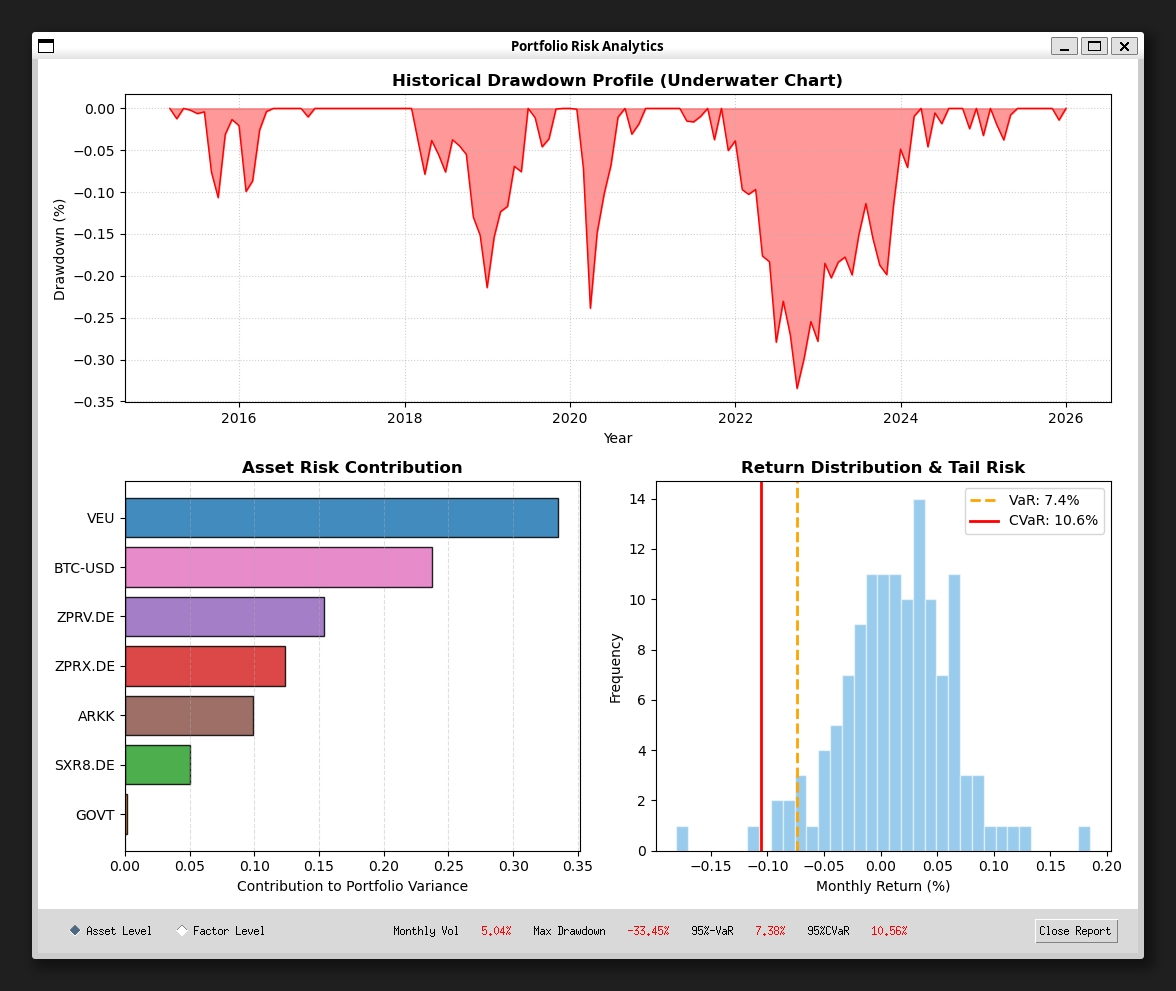
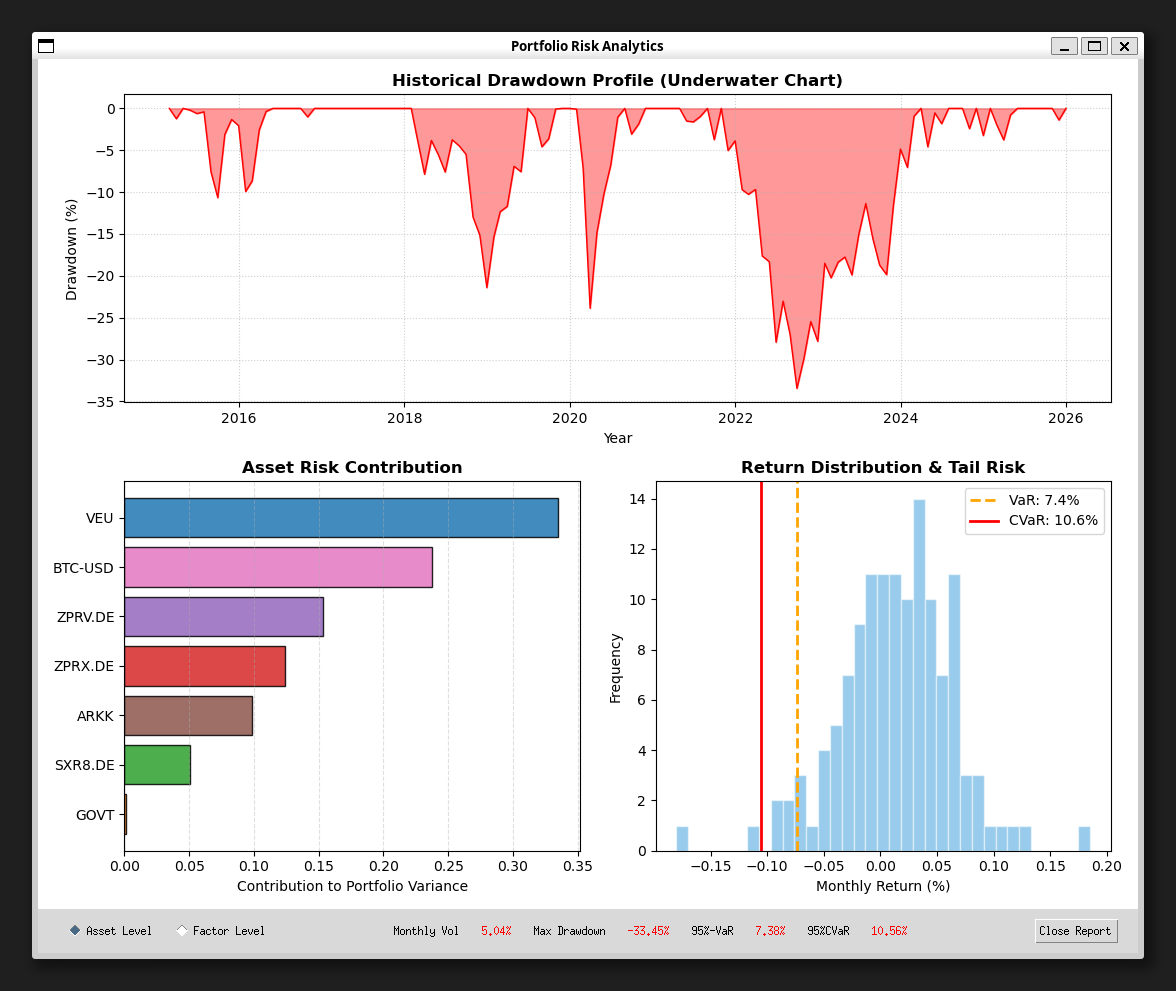
plotting tweak

diff --git a/src/risk.py b/src/risk.py
@@ -63,6 +63,7 @@ def plot_risk_dashboard(root, portfolio_obj):
 
     # --- Calculations ---
     m = calculate_risk_metrics(port_returns, weights, cov_matrix)
+    m["Drawdown_Series"] *= 100
     ff_df = fetch_ff5_monthly()
     ff_df.index = ff_df.index.to_period("M").to_timestamp("M")
     f_contrib, f_ratio = calculate_factor_risk(port_returns, ff_df)
